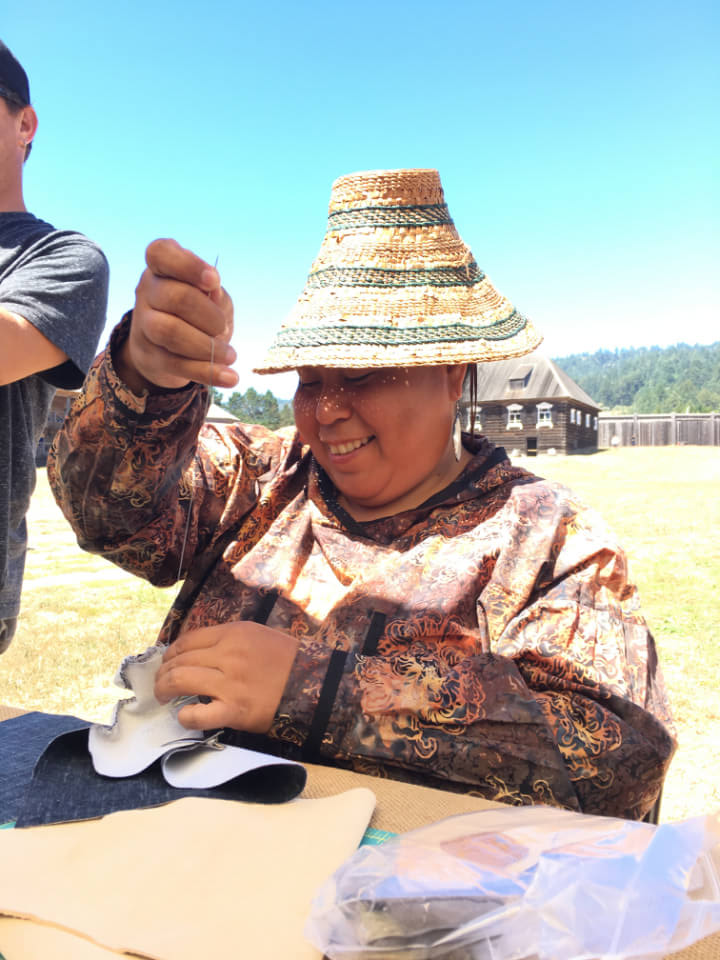
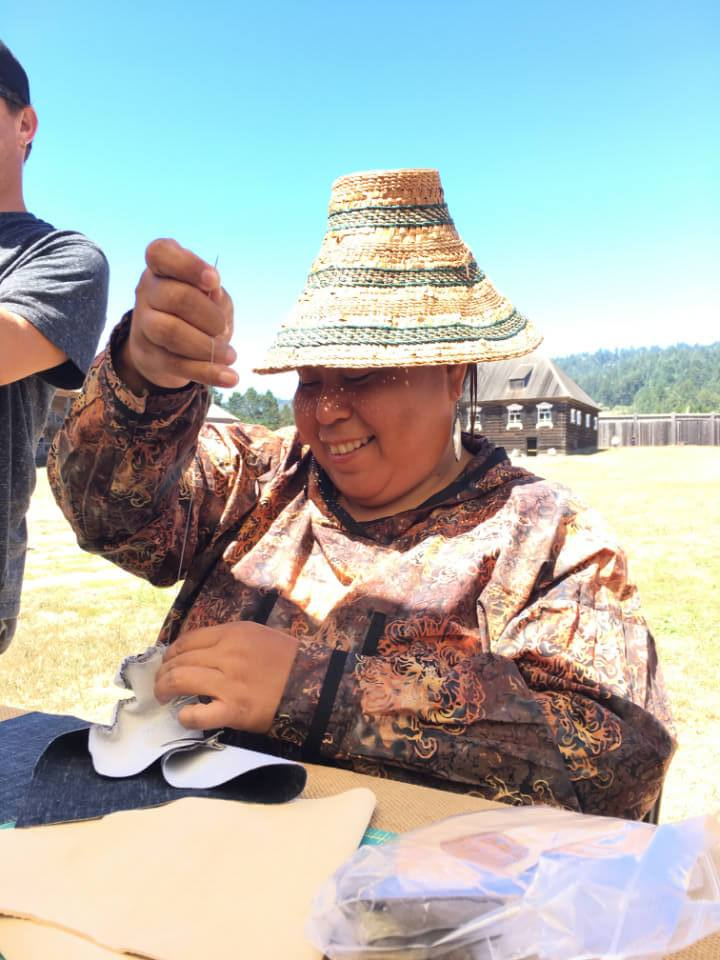
Optimized moc & home imgs, decreased hero padding on desktop

Changed region(s): [[0.4889, 0.2188, 0.5806, 0.3438], [0.4583, 0.1875, 0.4889, 0.25]]

diff --git a/src/events/moccasin-class-fort-ross-2017.html b/src/events/moccasin-class-fort-ross-2017.html
@@ -32,18 +32,18 @@
         <h2 class="grid__col text-center section-title section-title--light-bg">Gallery Images</h2>
       </div>
       <div class="container grid" id="links">
-        <div class="grid__col is-6--small is-3--medium is-2--large"><a href="../assets/img/moc-2017/img01.jpg" title="2017 Moccasin Class Fort Ross 1"><img class="media gallery__img" src="../assets/img/moc-2017/img01.jpg" alt="2017 Moccasin Class Fort Ross 1" /></a></div>
-        <div class="grid__col is-6--small is-3--medium is-2--large"><a href="../assets/img/moc-2017/img02.jpg" title="2017 Moccasin Class Fort Ross 2"><img class="media gallery__img" src="../assets/img/moc-2017/img02.jpg" alt="2017 Moccasin Class Fort Ross 2" /></a></div>
-        <div class="grid__col is-6--small is-3--medium is-2--large"><a href="../assets/img/moc-2017/img03.jpg" title="2017 Moccasin Class Fort Ross 3"><img class="media gallery__img" src="../assets/img/moc-2017/img03.jpg" alt="2017 Moccasin Class Fort Ross 3" /></a></div>
-        <div class="grid__col is-6--small is-3--medium is-2--large"><a href="../assets/img/moc-2017/img04.jpg" title="2017 Moccasin Class Fort Ross 4"><img class="media gallery__img" src="../assets/img/moc-2017/img04.jpg" alt="2017 Moccasin Class Fort Ross 4" /></a></div>
-        <div class="grid__col is-6--small is-3--medium is-2--large"><a href="../assets/img/moc-2017/img05.jpg" title="2017 Moccasin Class Fort Ross 5"><img class="media gallery__img" src="../assets/img/moc-2017/img05.jpg" alt="2017 Moccasin Class Fort Ross 5" /></a></div>
-        <div class="grid__col is-6--small is-3--medium is-2--large"><a href="../assets/img/moc-2017/img06.jpg" title="2017 Moccasin Class Fort Ross 6"><img class="media gallery__img" src="../assets/img/moc-2017/img06.jpg" alt="2017 Moccasin Class Fort Ross 6" /></a></div>
-        <div class="grid__col is-6--small is-3--medium is-2--large"><a href="../assets/img/moc-2017/img07.jpg" title="2017 Moccasin Class Fort Ross 7"><img class="media gallery__img" src="../assets/img/moc-2017/img07.jpg" alt="2017 Moccasin Class Fort Ross 7" /></a></div>
-        <div class="grid__col is-6--small is-3--medium is-2--large"><a href="../assets/img/moc-2017/img08.jpg" title="2017 Moccasin Class Fort Ross 8"><img class="media gallery__img" src="../assets/img/moc-2017/img08.jpg" alt="2017 Moccasin Class Fort Ross 8" /></a></div>
-        <div class="grid__col is-6--small is-3--medium is-2--large"><a href="../assets/img/moc-2017/img09.jpg" title="2017 Moccasin Class Fort Ross 9"><img class="media gallery__img" src="../assets/img/moc-2017/img09.jpg" alt="2017 Moccasin Class Fort Ross 9" /></a></div>
-        <div class="grid__col is-6--small is-3--medium is-2--large"><a href="../assets/img/moc-2017/img10.jpg" title="2017 Moccasin Class Fort Ross 10"><img class="media gallery__img" src="../assets/img/moc-2017/img10.jpg" alt="2017 Moccasin Class Fort Ross 10" /></a></div>
-        <div class="grid__col is-6--small is-3--medium is-2--large"><a href="../assets/img/moc-2017/img11.jpg" title="2017 Moccasin Class Fort Ross 11"><img class="media gallery__img" src="../assets/img/moc-2017/img11.jpg" alt="2017 Moccasin Class Fort Ross 11" /></a></div>
-        <div class="grid__col is-6--small is-3--medium is-2--large"><a href="../assets/img/moc-2017/img12.jpg" title="2017 Moccasin Class Fort Ross 12"><img class="media gallery__img" src="../assets/img/moc-2017/img12.jpg" alt="2017 Moccasin Class Fort Ross 12" /></a></div>
+        <div class="grid__col is-6--small is-3--medium is-2--large"><a href="../assets/img/moc-2017/img01.jpg" title="2017 Moccasin Class Fort Ross 1"><img class="media gallery__img" src="../assets/img/moc-2017/img01-display.jpg" alt="2017 Moccasin Class Fort Ross 1" /></a></div>
+        <div class="grid__col is-6--small is-3--medium is-2--large"><a href="../assets/img/moc-2017/img02.jpg" title="2017 Moccasin Class Fort Ross 2"><img class="media gallery__img" src="../assets/img/moc-2017/img02-display.jpg" alt="2017 Moccasin Class Fort Ross 2" /></a></div>
+        <div class="grid__col is-6--small is-3--medium is-2--large"><a href="../assets/img/moc-2017/img03.jpg" title="2017 Moccasin Class Fort Ross 3"><img class="media gallery__img" src="../assets/img/moc-2017/img03-display.jpg" alt="2017 Moccasin Class Fort Ross 3" /></a></div>
+        <div class="grid__col is-6--small is-3--medium is-2--large"><a href="../assets/img/moc-2017/img04.jpg" title="2017 Moccasin Class Fort Ross 4"><img class="media gallery__img" src="../assets/img/moc-2017/img04-display.jpg" alt="2017 Moccasin Class Fort Ross 4" /></a></div>
+        <div class="grid__col is-6--small is-3--medium is-2--large"><a href="../assets/img/moc-2017/img05.jpg" title="2017 Moccasin Class Fort Ross 5"><img class="media gallery__img" src="../assets/img/moc-2017/img05-display.jpg" alt="2017 Moccasin Class Fort Ross 5" /></a></div>
+        <div class="grid__col is-6--small is-3--medium is-2--large"><a href="../assets/img/moc-2017/img06.jpg" title="2017 Moccasin Class Fort Ross 6"><img class="media gallery__img" src="../assets/img/moc-2017/img06-display.jpg" alt="2017 Moccasin Class Fort Ross 6" /></a></div>
+        <div class="grid__col is-6--small is-3--medium is-2--large"><a href="../assets/img/moc-2017/img07.jpg" title="2017 Moccasin Class Fort Ross 7"><img class="media gallery__img" src="../assets/img/moc-2017/img07-display.jpg" alt="2017 Moccasin Class Fort Ross 7" /></a></div>
+        <div class="grid__col is-6--small is-3--medium is-2--large"><a href="../assets/img/moc-2017/img08.jpg" title="2017 Moccasin Class Fort Ross 8"><img class="media gallery__img" src="../assets/img/moc-2017/img08-display.jpg" alt="2017 Moccasin Class Fort Ross 8" /></a></div>
+        <div class="grid__col is-6--small is-3--medium is-2--large"><a href="../assets/img/moc-2017/img09.jpg" title="2017 Moccasin Class Fort Ross 9"><img class="media gallery__img" src="../assets/img/moc-2017/img09-display.jpg" alt="2017 Moccasin Class Fort Ross 9" /></a></div>
+        <div class="grid__col is-6--small is-3--medium is-2--large"><a href="../assets/img/moc-2017/img10.jpg" title="2017 Moccasin Class Fort Ross 10"><img class="media gallery__img" src="../assets/img/moc-2017/img10-display.jpg" alt="2017 Moccasin Class Fort Ross 10" /></a></div>
+        <div class="grid__col is-6--small is-3--medium is-2--large"><a href="../assets/img/moc-2017/img11.jpg" title="2017 Moccasin Class Fort Ross 11"><img class="media gallery__img" src="../assets/img/moc-2017/img11-display.jpg" alt="2017 Moccasin Class Fort Ross 11" /></a></div>
+        <div class="grid__col is-6--small is-3--medium is-2--large"><a href="../assets/img/moc-2017/img12.jpg" title="2017 Moccasin Class Fort Ross 12"><img class="media gallery__img" src="../assets/img/moc-2017/img12-display.jpg" alt="2017 Moccasin Class Fort Ross 12" /></a></div>
         <div class="grid__col is-100p text-center">
           <span class="summary__text">71 Images Total</span><br>
           <a class="btn btn--primary btn--sharp" href="../assets/img/moc-2017/img13.jpg" title="2017 Moccasin Class Fort Ross 13">View More Photos</a>

diff --git a/src/assets/scss/_hero.scss b/src/assets/scss/_hero.scss
@@ -1,8 +1,12 @@
 .hero {
   background-size: cover;
   height: 100%;
-  padding-bottom: $hero-vertical-padding;
+  padding-bottom: $hero-vertical-padding-mobile;
   width: 100%;
+
+  @media only screen and (min-width: 768px) {
+    padding-bottom: $hero-vertical-padding-desktop;
+  }
 
   &--west {
     background: linear-gradient(transparentize($black, .7), transparentize($black, .7)),
@@ -24,12 +28,16 @@
     color: $white;
     font-size: 4rem;
     letter-spacing: .07em;
-    padding-top: $hero-vertical-padding;
+    padding-top: $hero-vertical-padding-mobile;
     text-align: center;
     text-transform: uppercase;
 
     &--pages {
       font-size: 4rem;
+    }
+
+    @media only screen and (min-width: 768px) {
+      padding-top: $hero-vertical-padding-desktop;
     }
   }
 

diff --git a/src/assets/scss/_settings.scss b/src/assets/scss/_settings.scss
@@ -15,7 +15,8 @@ $color-background-activities: lighten($color-primary, 10); // #FF4F4F 3DC5C5   6
 $color-background-event-bottom: darken($white, 7);
 $color-background-signup: lighten($color-secondary, 0);
 $gallery-img-shadow: 0 0 8px rgba(0, 0, 0, 0.25);
-$hero-vertical-padding: 5rem;
+$hero-vertical-padding-desktop: 4rem;
+$hero-vertical-padding-mobile: 5rem;
 $section-title-border-size: 3px;
 $section-title-padding: 1.5rem;
 $padding-section-bottom: 5rem;
